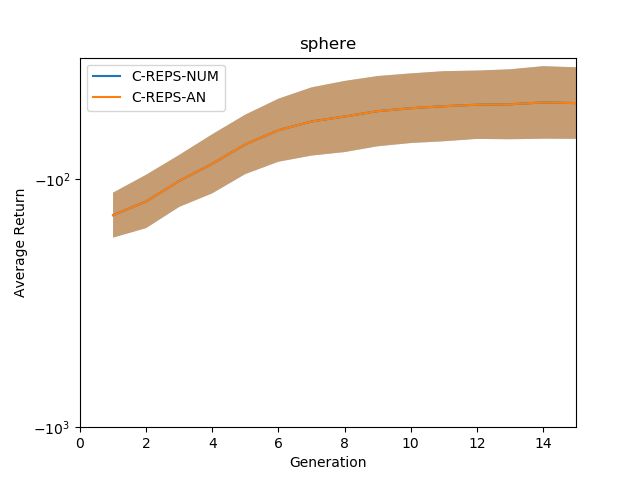
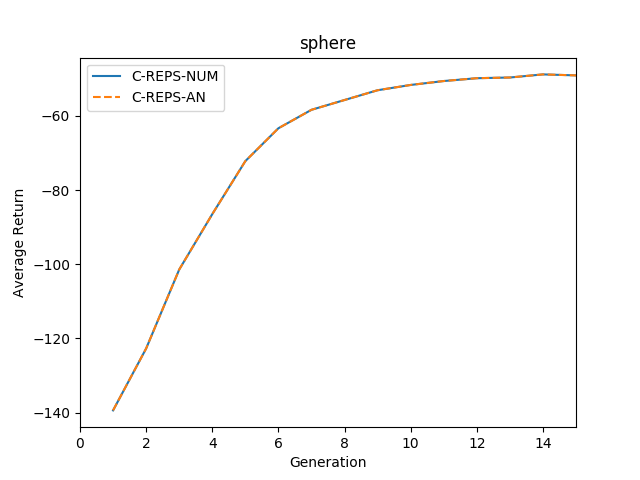
Improve figures

diff --git a/benchmarks/REPS_CREPS_gradients/creps_benchmark.py b/benchmarks/REPS_CREPS_gradients/creps_benchmark.py
@@ -66,6 +66,10 @@ context_dims_per_objective = {
 n_episodes_per_objective = {
     "sphere": 15 * n_samples_per_update,
 }
+linestyles = {
+    "C-REPS-NUM": '-',
+    "C-REPS-AN": '--',
+}
 
 def benchmark():
     """Run benchmarks for all configurations of objective and algorithm."""
@@ -131,29 +135,17 @@ def show_results(results):
                 len(seeds), n_generations, n_samples_per_update)
             average_feedback_per_generation = grouped_feedbacks.mean(axis=2)
             mean_feedbacks = average_feedback_per_generation.mean(axis=0)
-            std_feedbacks = average_feedback_per_generation.std(axis=0)
+            print("%s (objective function %s): maximum found was %f."
+                  % (algorithm_name, objective_name, np.max(mean_feedbacks)))
             generation = np.arange(n_generations) + 1.0
-            m, l, u = _log_transform(mean_feedbacks, std_feedbacks)
-            plt.plot(generation, m, label=algorithm_name)
-            plt.fill_between(generation, l, u, alpha=0.5)
-            yticks_labels = map(lambda t: "$-10^{%d}$" % -t, range(-3, -1))
-            plt.yticks(range(-3, -1), yticks_labels)
+            plt.plot(generation, mean_feedbacks,
+                     linestyle=linestyles[algorithm_name],
+                     label=algorithm_name)
             plt.xlabel("Generation")
             plt.ylabel("Average Return")
             plt.xlim((0, n_generations))
             plt.legend()
-            # plt.savefig(objective_name + "_plot.png")
     plt.show()
-
-def _log_transform(mean_feedbacks, std_feedbacks):
-    m = mean_feedbacks
-    l = m - std_feedbacks
-    m_log = -np.log10(-m)
-    l_log = -np.log10(-l)
-    # this is a hack: mean + std usually does not have the same distance to
-    # the mean like mean - std in a log-scaled plot!
-    u_log = m_log + (m_log - l_log)
-    return m_log, l_log, u_log
 
 
 if __name__ == "__main__":

diff --git a/benchmarks/REPS_CREPS_gradients/reps_benchmark.py b/benchmarks/REPS_CREPS_gradients/reps_benchmark.py
@@ -36,8 +36,12 @@ optimizers = {
     "Numerical gradient": REPSOptimizerNumerical(x, random_state=0),
     "Analytical gradient": REPSOptimizer(x, random_state=0),
     }
+linestyles = {
+    "Numerical gradient": '-',
+    "Analytical gradient": '--',
+}
 
-plt.figure(figsize=(12, 8))
+plt.figure(figsize=(8, 6))
 for name, opt in optimizers.items():
     start_time = time.time()
     for i in range(n_trials):
@@ -47,7 +51,7 @@ for name, opt in optimizers.items():
           % (name, total_time / n_trials))
     rwds = -np.maximum.accumulate(r)
     print("%s: minimum found was %f." % (name, rwds[-1]))
-    plt.plot(rwds, label=name)
+    plt.plot(rwds, linestyle=linestyles[name], label=name)
 plt.xlabel("Function evaluations")
 plt.ylabel("$f(x)$")
 plt.title("Rosenbrock function")

diff --git a/benchmarks/REPS_CREPS_gradients/readme.md b/benchmarks/REPS_CREPS_gradients/readme.md
@@ -26,6 +26,8 @@ $ python creps_benchmark.py
 C-REPS-NUM (objective function sphere): completed in average time of 9.892 seconds.
 ...
 C-REPS-AN (objective function sphere): completed in average time of 7.184 seconds.
+C-REPS-NUM (objective function sphere): maximum found was -48.828993.
+C-REPS-AN (objective function sphere): maximum found was -48.828993.
 ```
 
 ![alt text](creps_benchmark_result.png)
